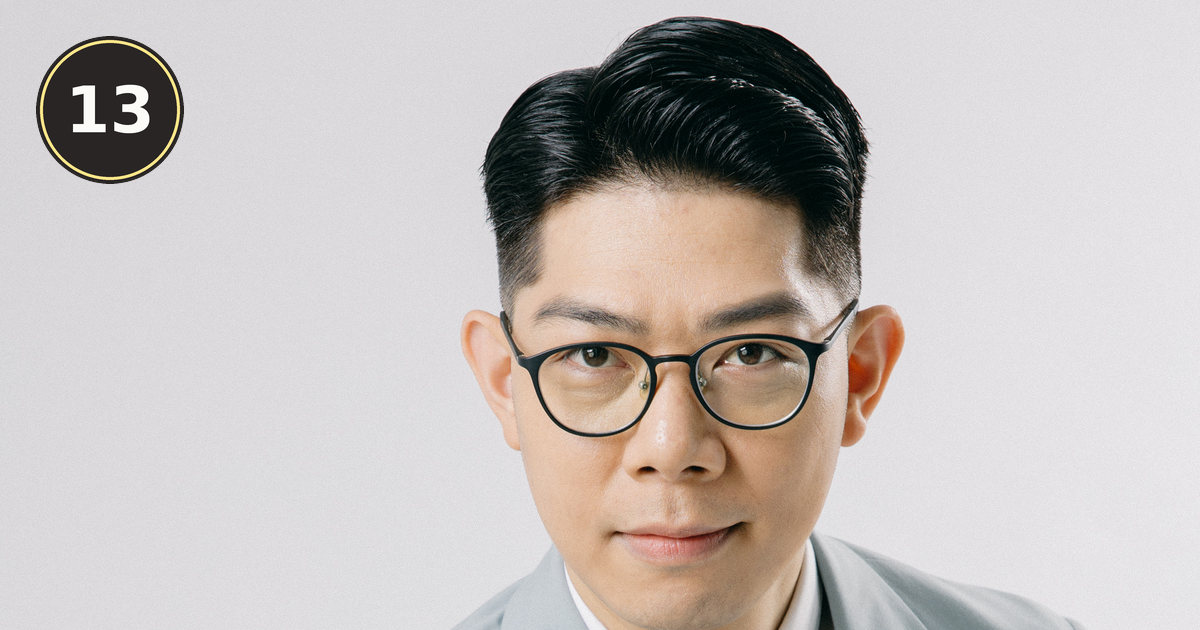
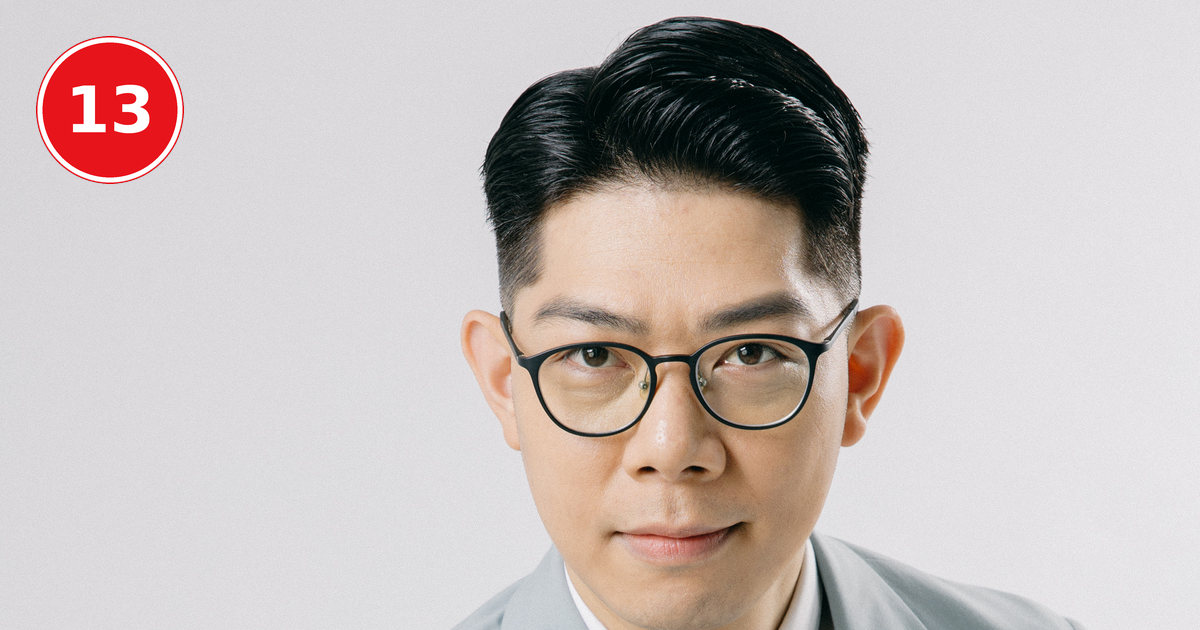
Recolor the candidate 13 badge to red.
Use #E8141B for the hero circle, favicon, and share image, with white numerals and a thin white ring. Position and size stay the same.

Changed region(s): [[0.0308, 0.0603, 0.1542, 0.3016]]

diff --git a/index.html b/index.html
@@ -168,8 +168,8 @@
                                         class="block w-full h-[480px] sm:h-[560px] object-cover rounded-2xl shadow-inner"
                                     />
                                 </picture>
-                                <div class="candidate-badge pointer-events-none absolute z-10 flex aspect-square flex-col items-center justify-center rounded-full border-4 border-amber-200 bg-stone-950 text-[#fdfbf7] shadow-lg" role="img" aria-label="號次 13 號">
-                                    <span class="candidate-badge-label font-bold leading-none tracking-[0.18em] text-amber-200" aria-hidden="true">號次</span>
+                                <div class="candidate-badge pointer-events-none absolute z-10 flex aspect-square flex-col items-center justify-center rounded-full border-2 border-white bg-[#E8141B] text-white shadow-lg" role="img" aria-label="號次 13 號">
+                                    <span class="candidate-badge-label font-bold leading-none tracking-[0.18em] text-white" aria-hidden="true">號次</span>
                                     <span class="candidate-badge-num font-black leading-none tracking-tight" aria-hidden="true">13</span>
                                 </div>
                             </div>
